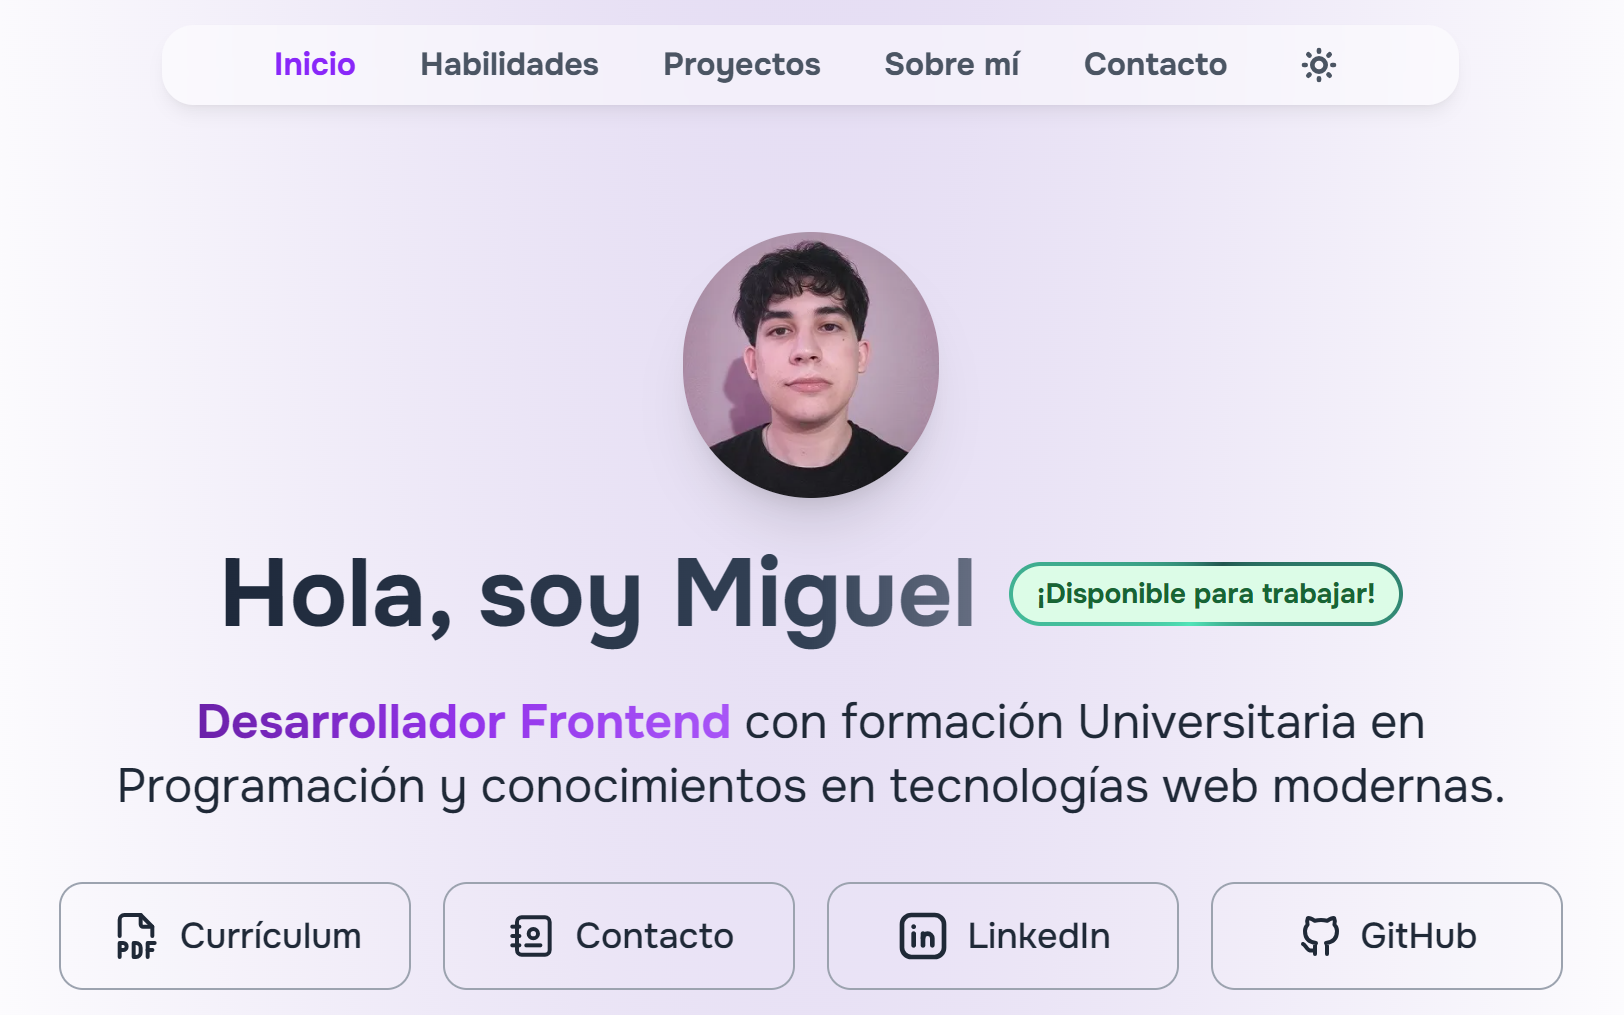
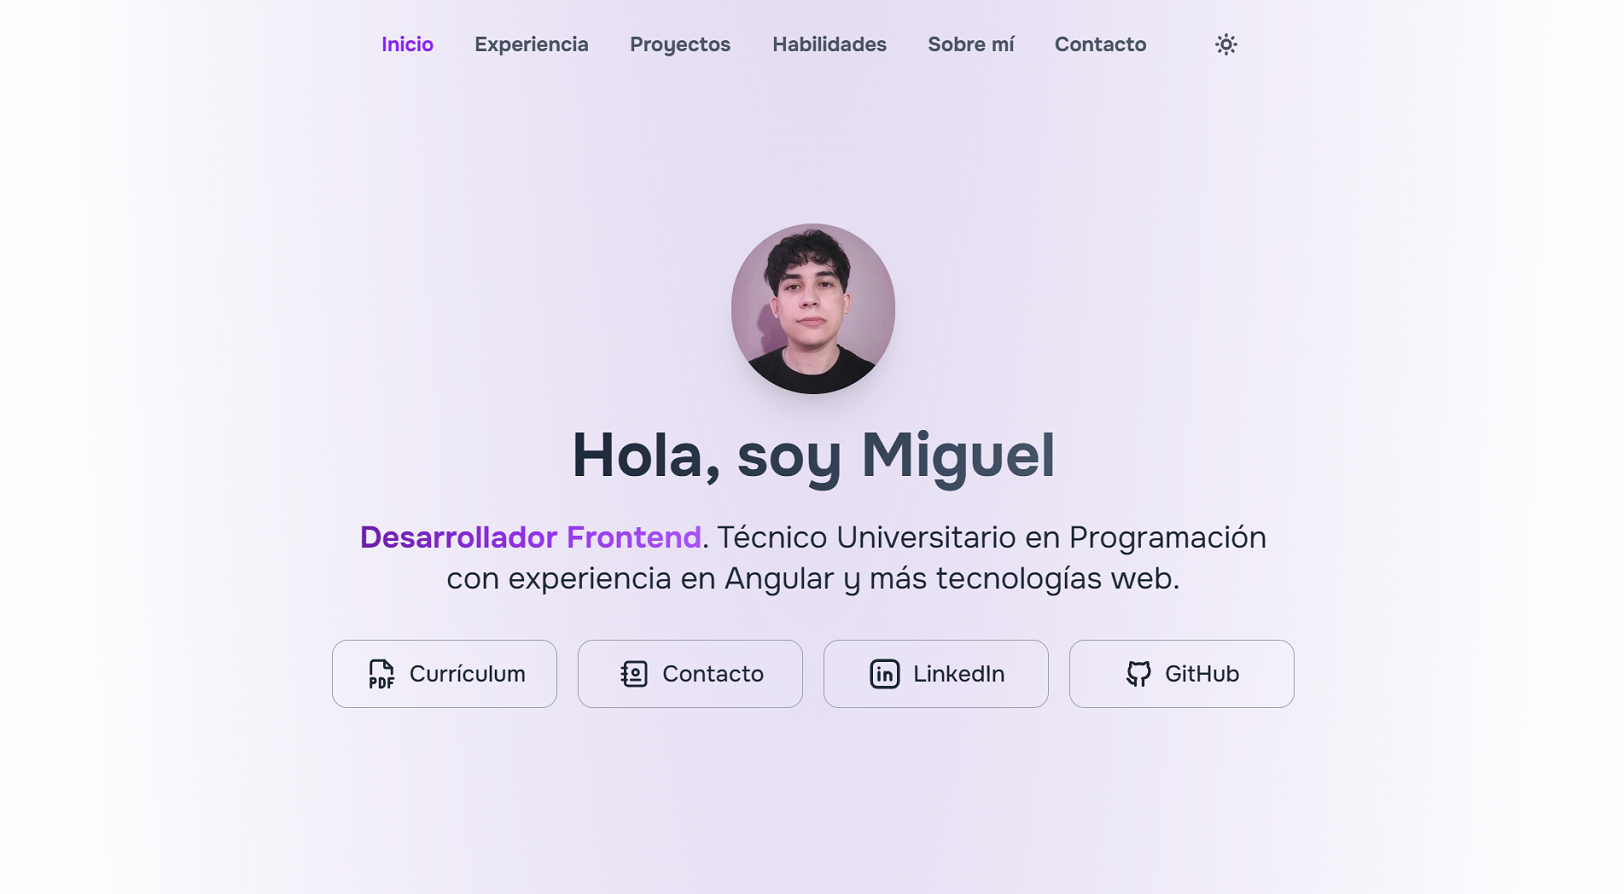
Corrección en navbar mobile y actualización en README

diff --git a/README.md b/README.md
@@ -1,8 +1,8 @@
 # 💻 Mi Portfolio
 
-Sitio web personal creado con Astro y Tailwind CSS. Es mi carta de presentación, la cual cuenta más sobre mí, cuáles son mis habilidades, proyectos destacados, contacto y demás.
+Sitio web personal creado con Astro y Tailwind CSS. Es mi carta de presentación, la cual cuenta más sobre mí, cuáles son mis habilidades, experiencias, proyectos y más.
 
-⭐ **[Enlace directo al Portfolio](https://miguel-angel-gil.netlify.app/)**
+⭐ **[Enlace directo al Portfolio](https://miguelangelgil.netlify.app/)**
 
 ![Previsualización del Portfolio](./public/images/portfolio-pic.png)
 
@@ -12,20 +12,21 @@ Sitio web personal creado con Astro y Tailwind CSS. Es mi carta de presentación
 Este portfolio nació como un ejercicio práctico para aprender **Astro**, un framework moderno y especializado en sitios estáticos. 
 Mi objetivo fue crear un sitio **simple, rápido y profesional**, que pueda funcionar como mi carta de presentación en el mundo laboral. 
 
-Elegí **Astro** por su ligereza y simplicidad frente a frameworks más complejos como Angular (con el que tengo experiencia), y lo acompañé con **Tailwind CSS**, un framework de CSS que también aprendí a usar en este proyecto. Me resultó genial para acelerar y tener consistencia en el desarrollo a nivel diseño.
+Elegí **Astro** por su ligereza y simplicidad frente a frameworks más complejos como Angular (el que mejor manejo), y lo acompañé con **Tailwind CSS**, un framework de CSS que también aprendí a usar en este proyecto. Me resultó genial para acelerar y tener consistencia en el desarrollo a nivel diseño.
 
 ## 🛠 Stack tecnológico
 - ⚡ **Astro** → Microframework para sitios estáticos.  
 - 🎨 **Tailwind CSS** → Estilos rápidos gracias a clases utilitarias.  
 
 ## ✨ Características
-- El portfolio está dividido en 5 secciones:  
+- El portfolio está dividido en 6 secciones:  
 
   1) **Inicio** → Hero con bienvenida, descripción breve y enlaces rápidos (Curriculum, Contacto, LinkedIn y GitHub).  
-  2) **Proyectos** → Mis proyectos principales con imagen, descripción, tecnologías y enlaces.  
-  3) **Habilidades** → Listado de skills con iconos, clasificadas en frontend, herramientas y complementos.  
-  4) **Sobre mí** → Breve historia personal y trayectoria académica/profesional.  
-  5) **Contacto** → Opciones para copiar mi email o abrir la app de correo, además de enlaces directos a LinkedIn.  
+  2) **Experiencia** → Línea de tiempo detallando mis experiencias laborales.  
+  3) **Proyectos** → Mis proyectos principales con imagen, descripción, tecnologías y enlaces.  
+  4) **Habilidades** → Listado de skills con iconos, clasificadas en frontend, herramientas y complementos.  
+  5) **Sobre mí** → Breve historia personal y trayectoria académica/profesional.  
+  6) **Contacto** → Opciones para copiar mi email o abrir la app de correo, además de enlaces directos a LinkedIn.  
 
 - Tiene modo claro y oscuro, el cual se ajusta automáticamente según la preferencia del sistema.
 
@@ -35,4 +36,4 @@ Elegí **Astro** por su ligereza y simplicidad frente a frameworks más complejo
 
 ## 📌 Aclaraciones
 - Aprendí a hacerlo con un tutorial que me encontré por YouTube del desarrollador [midudev](https://www.youtube.com/@midudev).
-- Lo hice a fines de 2024, y le fui haciendo retoques a lo largo de 2025.
+- La primer versión del sitio fue publicada a fines de 2024.
